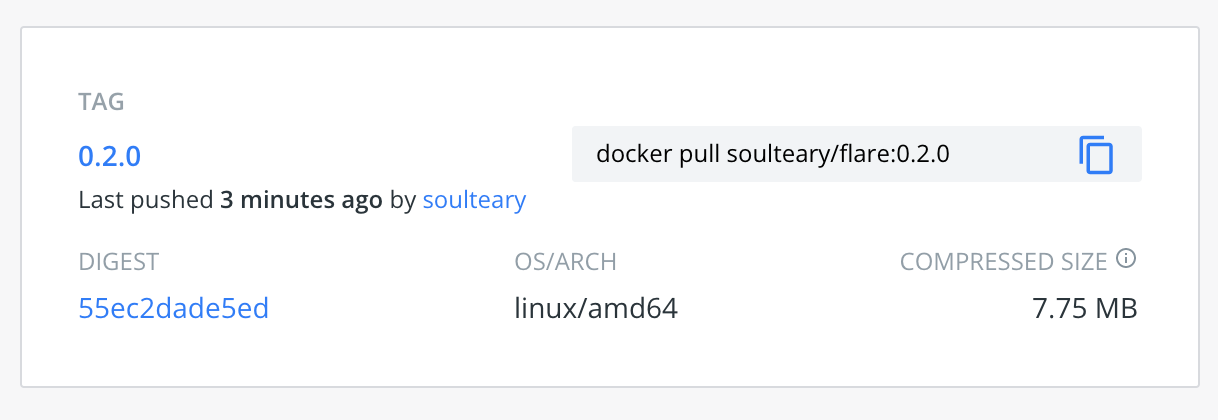
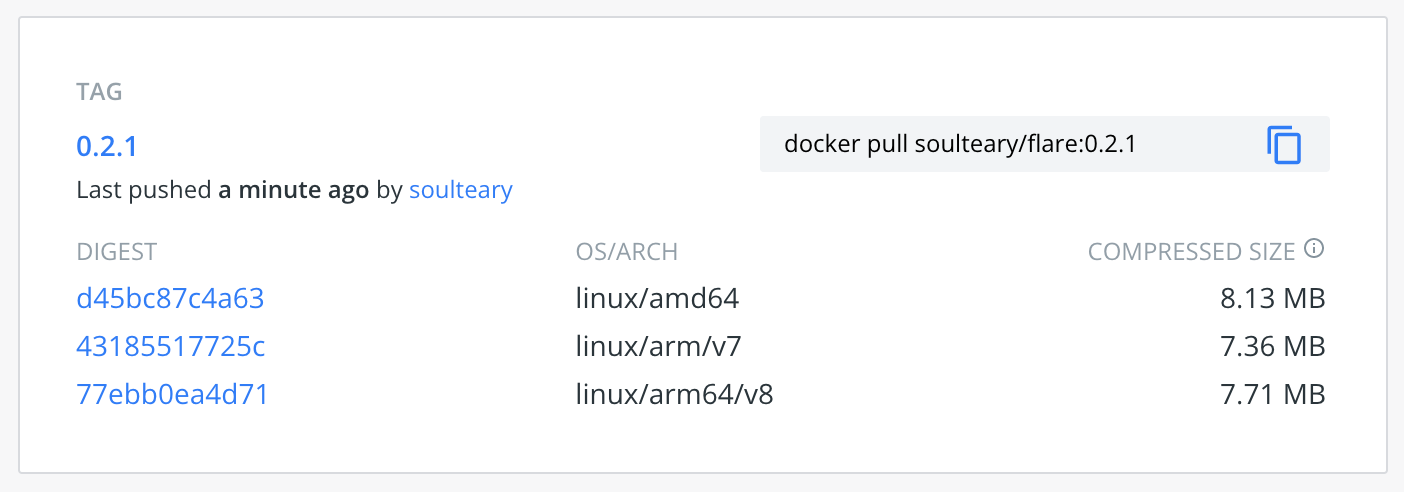
chore: update version to 0.2.1

diff --git a/README.md b/README.md
@@ -4,6 +4,8 @@
 
 无数据库依赖，使用简单的配置来保存数据，数据更加透明，并 100% 属于用户自己。
 
+支持 x86 以及常见的 ARM 设备。
+
 应用资源消耗非常低：
 
 - CPU: < 1%
@@ -33,7 +35,7 @@ cd docker-flare
 启动应用非常简单，如果你习惯使用 Docker，可以执行：
 
 ```bash
-docker run --rm -it -p 5005:5005 -v `pwd`/app:/app soulteary/flare:0.2.0
+docker run --rm -it -p 5005:5005 -v `pwd`/app:/app soulteary/flare:0.2.1
 ```
 
 如果你习惯使用 docker-compose：
